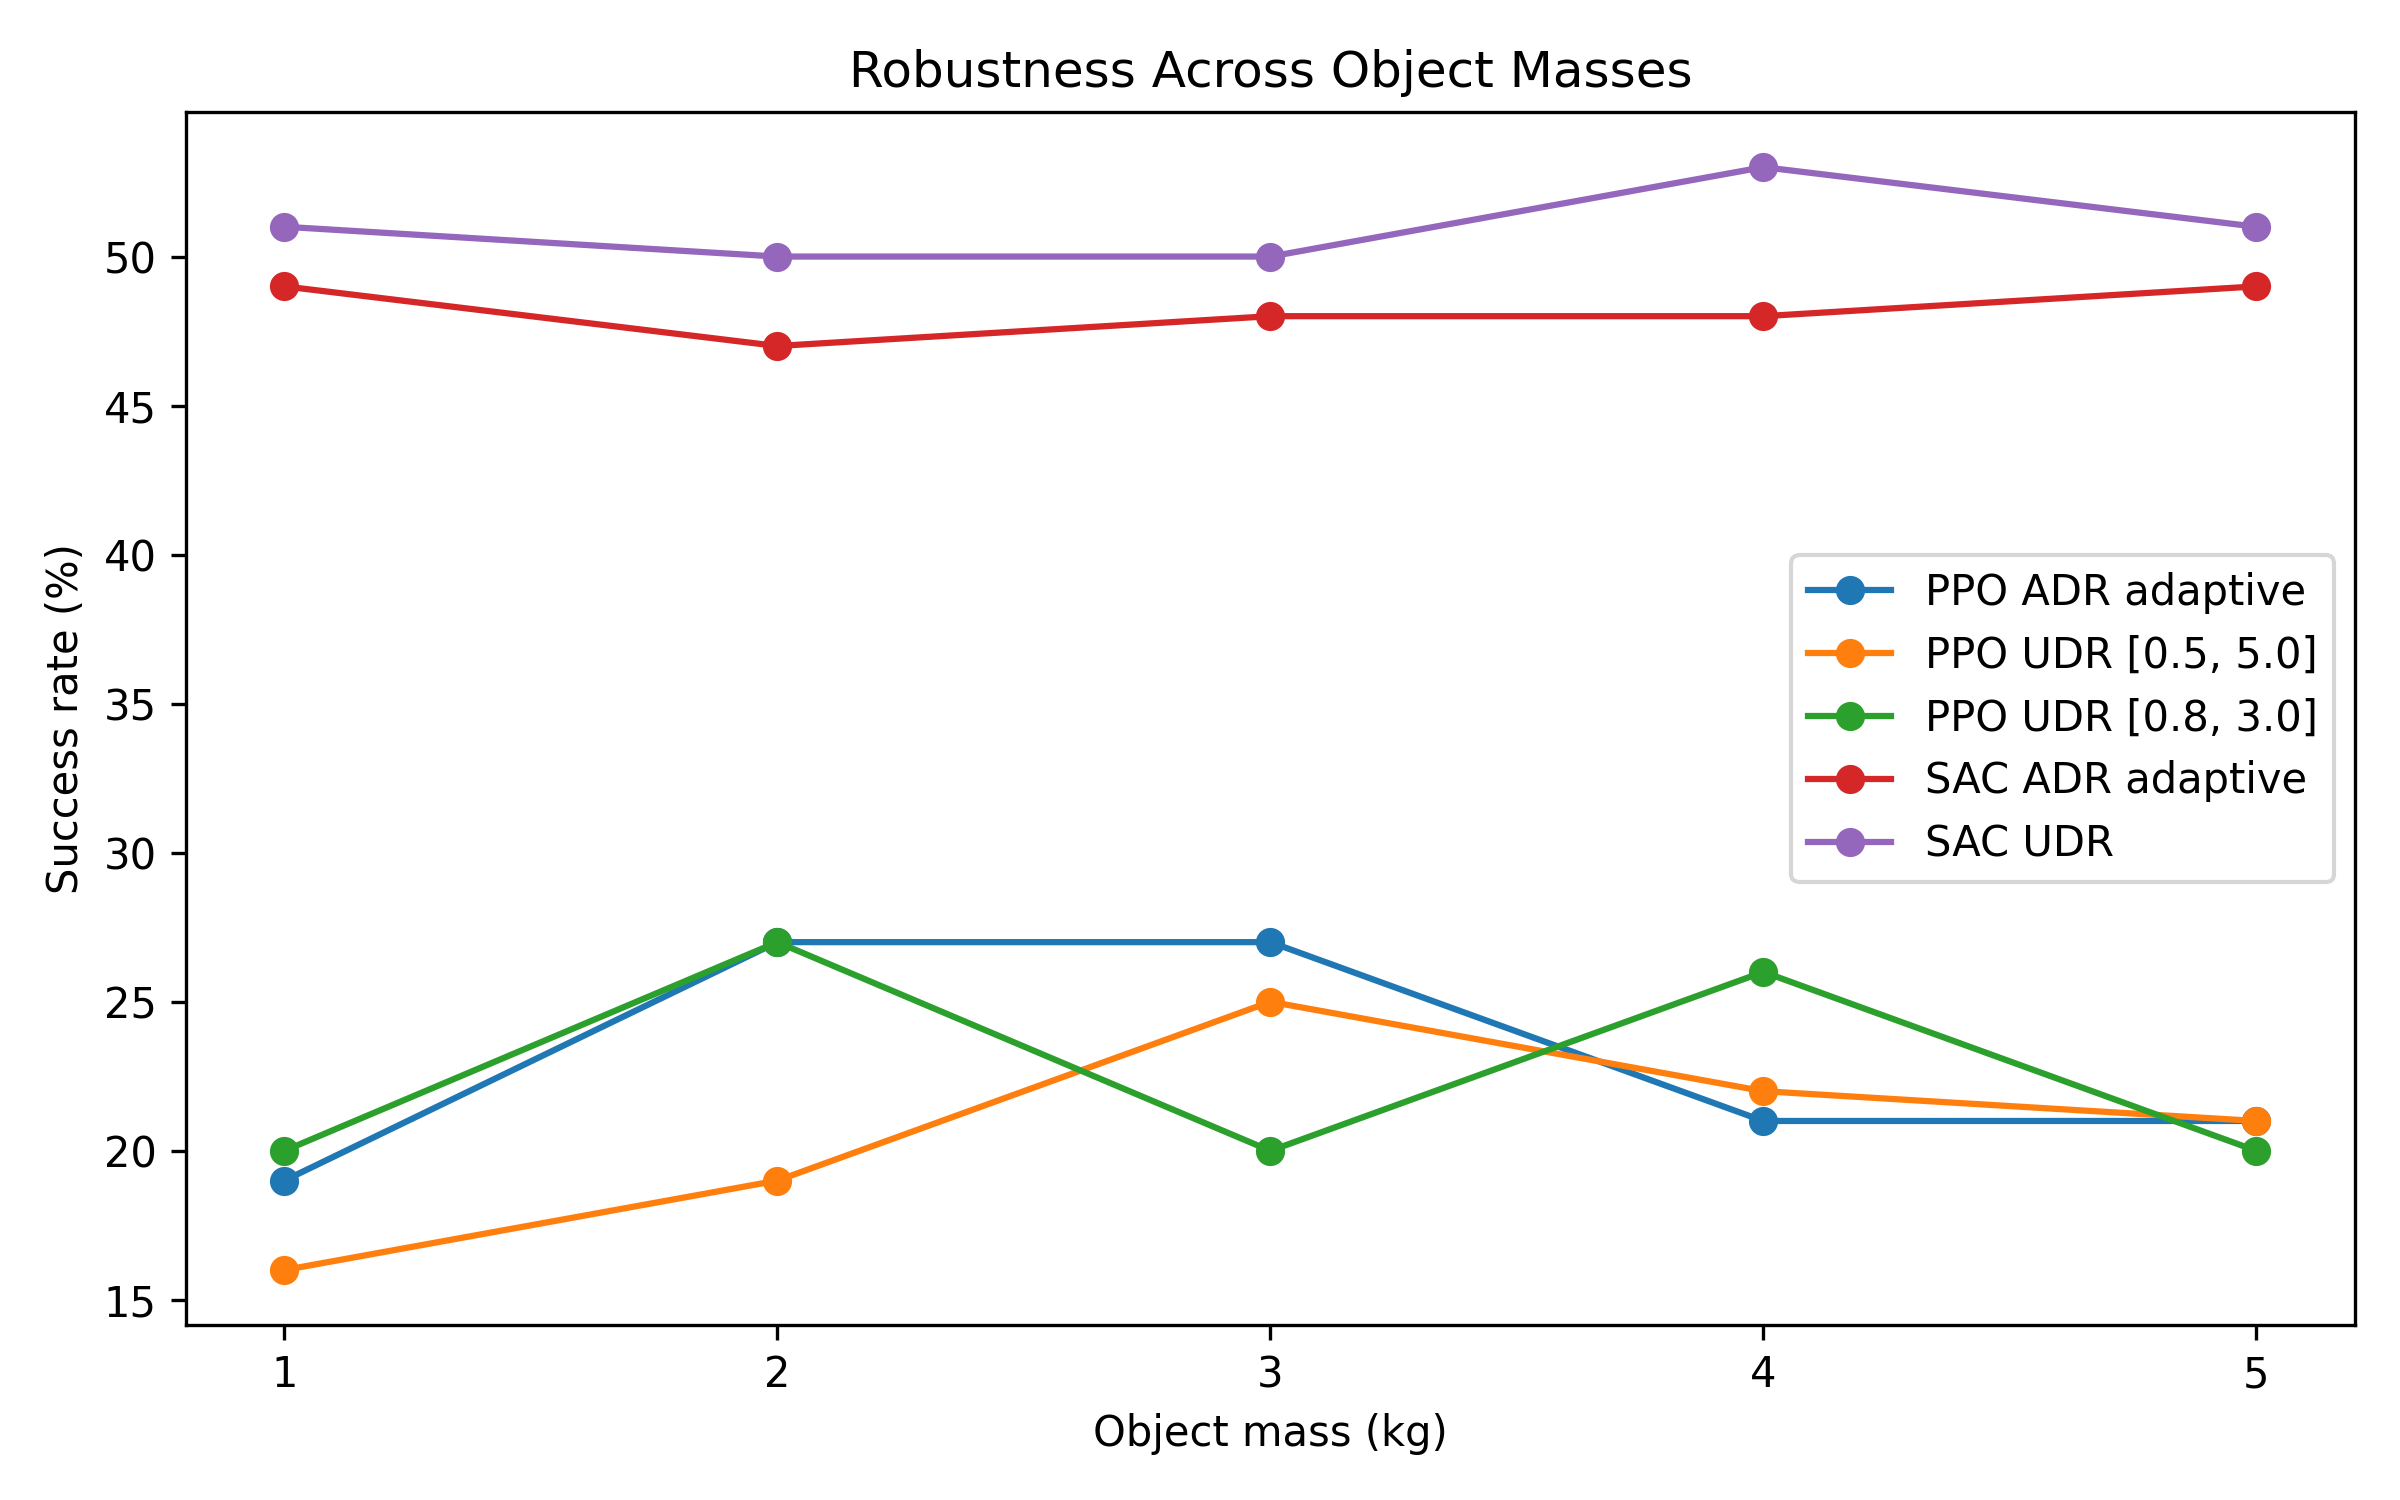
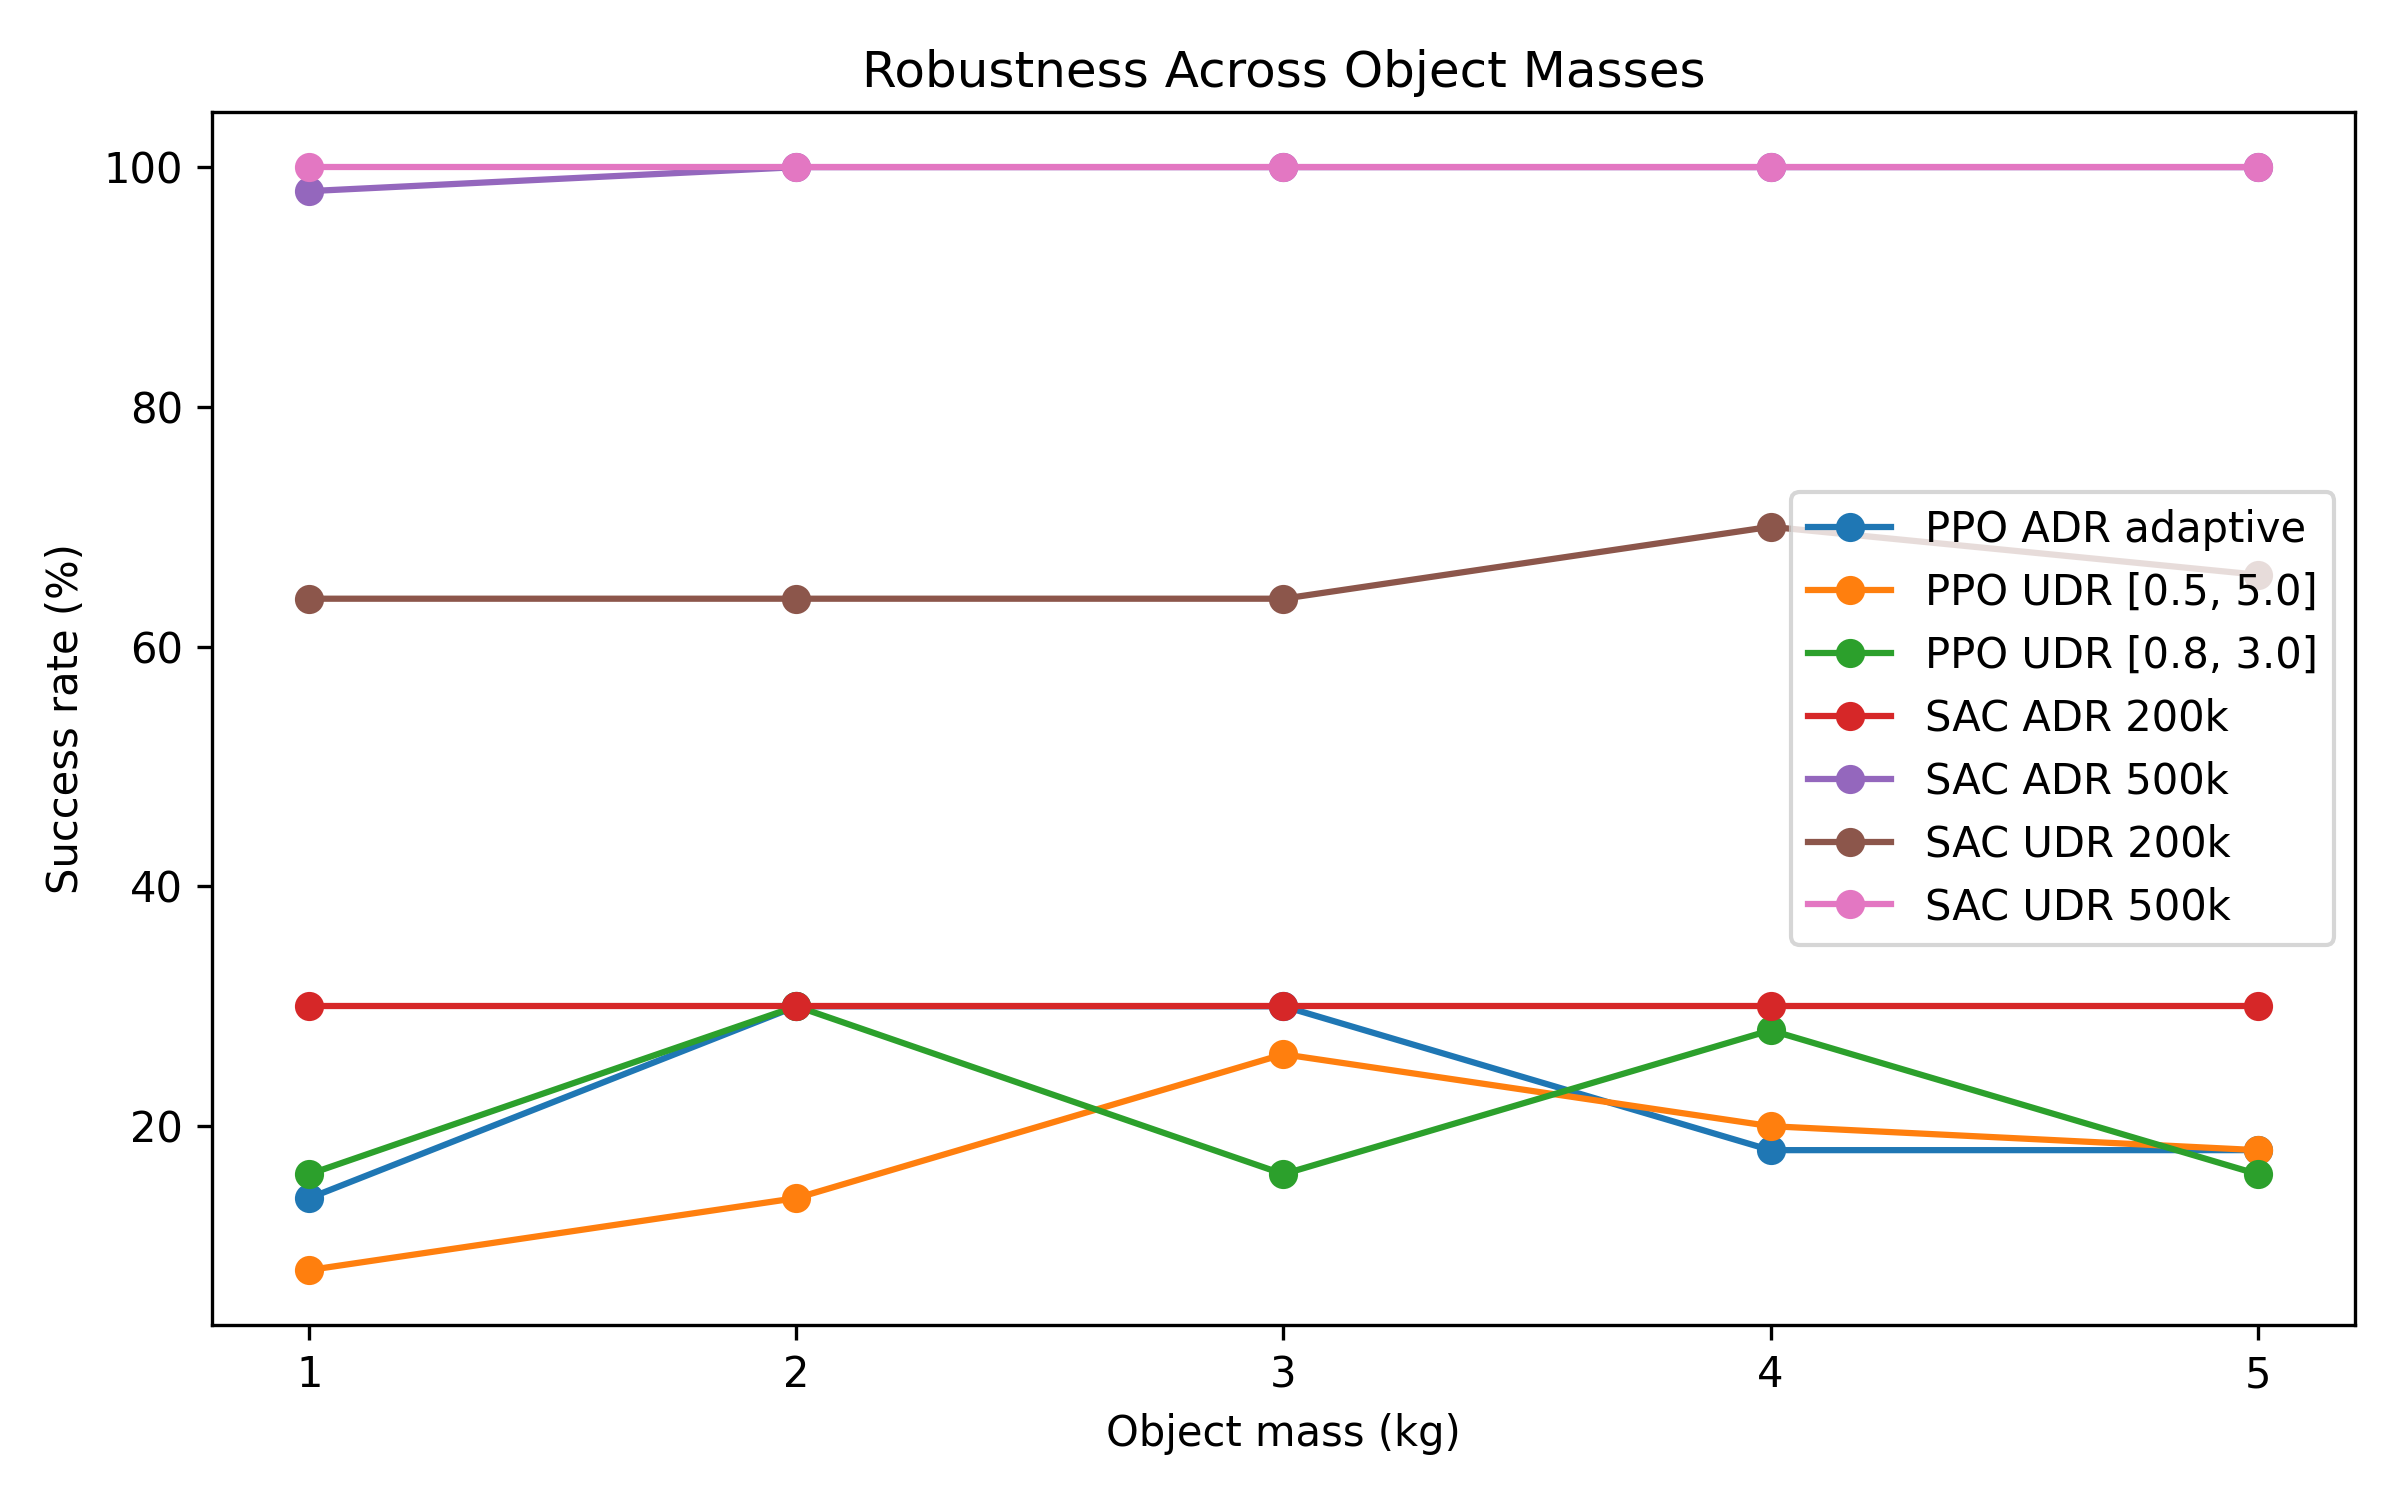
Fix Part 2 domain randomization report tables

diff --git a/make_report_assets.py b/make_report_assets.py
@@ -11,6 +11,26 @@ import pandas as pd
 ROOT = Path(__file__).resolve().parent
 OUT = ROOT / "report_assets"
 
+DR_TARGET_RESULTS = [
+    ("PPO ADR", 0.260, -3.2035181522369385),
+    ("PPO UDR [0.5, 5.0]", 0.185, -3.5629554986953735),
+    ("PPO UDR [0.8, 3.0]", 0.160, -3.7178163528442383),
+    ("SAC ADR 200k", 0.300, -3.065),
+    ("SAC ADR 500k", 1.000, -0.407),
+    ("SAC UDR 200k", 0.660, -1.7757229804992676),
+    ("SAC UDR 500k", 1.000, -0.339),
+]
+
+DR_MASS_RESULTS = [
+    ("PPO ADR", [0.14, 0.30, 0.30, 0.18, 0.18]),
+    ("PPO UDR [0.5, 5.0]", [0.08, 0.14, 0.26, 0.20, 0.18]),
+    ("PPO UDR [0.8, 3.0]", [0.16, 0.30, 0.16, 0.28, 0.16]),
+    ("SAC ADR 200k", [0.30, 0.30, 0.30, 0.30, 0.30]),
+    ("SAC ADR 500k", [0.98, 1.00, 1.00, 1.00, 1.00]),
+    ("SAC UDR 200k", [0.64, 0.64, 0.64, 0.70, 0.66]),
+    ("SAC UDR 500k", [1.00, 1.00, 1.00, 1.00, 1.00]),
+]
+
 
 def pct(value):
     if pd.isna(value):
@@ -150,45 +170,26 @@ def part2_tables():
     )
     save_table(lower_upper, "Part 2: lower and upper bounds", OUT / "part2_lower_upper_table.png")
 
-    dr_target = df[
-        (df["env_type"] == "target")
-        & (df["eval_mass"].isna())
-        & df["experiment_name"].str.contains(
-            "udr_v2|udr_v3|adr_v2|ppo_udr|ppo_adr|sac_udr|sac_adr",
-            regex=True,
-        )
-    ]
-    dr_target = (
-        dr_target.groupby("label", as_index=False)
-        .agg(success_rate=("success_rate", "mean"), mean_return=("mean_return", "mean"))
-    )
     dr_table = pd.DataFrame(
         {
-            "Method": dr_target["label"],
-            "Target success": dr_target["success_rate"].map(pct),
-            "Mean return": dr_target["mean_return"].map(fmt),
+            "Method": [row[0] for row in DR_TARGET_RESULTS],
+            "Target success": [pct(row[1]) for row in DR_TARGET_RESULTS],
+            "Mean return": [fmt(row[2]) for row in DR_TARGET_RESULTS],
         }
     )
     save_table(dr_table, "Part 2: domain randomization on target domain", OUT / "part2_domain_randomization_table.png")
 
-    mass_df = df[
-        df["eval_mass"].notna()
-        & df["experiment_name"].str.contains(
-            "udr_v2|udr_v3|adr_v2|ppo_udr|ppo_adr|sac_udr|sac_adr",
-            regex=True,
-        )
-    ]
-    if not mass_df.empty:
-        pivot = mass_df.pivot_table(
-            index="label",
-            columns="eval_mass",
-            values="success_rate",
-            aggfunc="mean",
-        ).reset_index()
-        pivot.columns = ["Method"] + [f"{int(col)} kg" for col in pivot.columns[1:]]
-        for col in pivot.columns[1:]:
-            pivot[col] = pivot[col].map(pct)
-        save_table(pivot, "Part 2: mass robustness", OUT / "part2_mass_robustness_table.png")
+    mass_table = pd.DataFrame(
+        {
+            "Method": [row[0] for row in DR_MASS_RESULTS],
+            "1 kg": [pct(row[1][0]) for row in DR_MASS_RESULTS],
+            "2 kg": [pct(row[1][1]) for row in DR_MASS_RESULTS],
+            "3 kg": [pct(row[1][2]) for row in DR_MASS_RESULTS],
+            "4 kg": [pct(row[1][3]) for row in DR_MASS_RESULTS],
+            "5 kg": [pct(row[1][4]) for row in DR_MASS_RESULTS],
+        }
+    )
+    save_table(mass_table, "Part 2: mass robustness", OUT / "part2_mass_robustness_table.png")
 
 
 def main():

diff --git a/part2/plot_results.py b/part2/plot_results.py
@@ -10,6 +10,26 @@ import pandas as pd
 CSV_PATH = "results/eval_results.csv"
 OUT_DIR = "results"
 
+DR_TARGET_RESULTS = [
+    ("PPO ADR", 0.260, -3.2035181522369385),
+    ("PPO UDR [0.5, 5.0]", 0.185, -3.5629554986953735),
+    ("PPO UDR [0.8, 3.0]", 0.160, -3.7178163528442383),
+    ("SAC ADR 200k", 0.300, -3.065),
+    ("SAC ADR 500k", 1.000, -0.407),
+    ("SAC UDR 200k", 0.660, -1.7757229804992676),
+    ("SAC UDR 500k", 1.000, -0.339),
+]
+
+DR_MASS_RESULTS = [
+    ("PPO ADR adaptive", [0.14, 0.30, 0.30, 0.18, 0.18]),
+    ("PPO UDR [0.5, 5.0]", [0.08, 0.14, 0.26, 0.20, 0.18]),
+    ("PPO UDR [0.8, 3.0]", [0.16, 0.30, 0.16, 0.28, 0.16]),
+    ("SAC ADR 200k", [0.30, 0.30, 0.30, 0.30, 0.30]),
+    ("SAC ADR 500k", [0.98, 1.00, 1.00, 1.00, 1.00]),
+    ("SAC UDR 200k", [0.64, 0.64, 0.64, 0.70, 0.66]),
+    ("SAC UDR 500k", [1.00, 1.00, 1.00, 1.00, 1.00]),
+]
+
 
 def clean_label(name):
     if "ppo_none_source_to_source" in name:
@@ -50,21 +70,9 @@ def main():
     df["mean_return"] = pd.to_numeric(df["mean_return"], errors="coerce")
     df["eval_mass"] = pd.to_numeric(df["eval_mass"], errors="coerce")
 
-    target_df = df[
-        (df["env_type"] == "target") &
-        (df["eval_mass"].isna()) &
-        (df["experiment_name"].str.contains("udr_v2|udr_v3|adr_v2|ppo_udr|ppo_adr|sac_udr|sac_adr", regex=True))
-    ].copy()
-
-    target_df["label"] = target_df["experiment_name"].apply(clean_label)
-
-    target_summary = (
-        target_df
-        .groupby("label", as_index=False)
-        .agg(
-            success_rate=("success_rate", "mean"),
-            mean_return=("mean_return", "mean"),
-        )
+    target_summary = pd.DataFrame(
+        DR_TARGET_RESULTS,
+        columns=["label", "success_rate", "mean_return"],
     )
 
     print("\n=== Target summary ===")
@@ -92,17 +100,12 @@ def main():
     plt.savefig("results/mean_return_barplot.png", dpi=300)
     plt.close()
 
-    mass_df = df[
-        (df["eval_mass"].notna()) &
-        (df["experiment_name"].str.contains("udr_v2|udr_v3|adr_v2|ppo_udr|ppo_adr|sac_udr|sac_adr", regex=True))
-    ].copy()
-
-    mass_df["label"] = mass_df["experiment_name"].apply(clean_label)
-
-    mass_summary = (
-        mass_df
-        .groupby(["label", "eval_mass"], as_index=False)
-        .agg(success_rate=("success_rate", "mean"))
+    mass_summary = pd.DataFrame(
+        [
+            {"label": label, "eval_mass": float(mass), "success_rate": success}
+            for label, values in DR_MASS_RESULTS
+            for mass, success in zip([1, 2, 3, 4, 5], values)
+        ]
     )
 
     print("\n=== Mass robustness summary ===")
